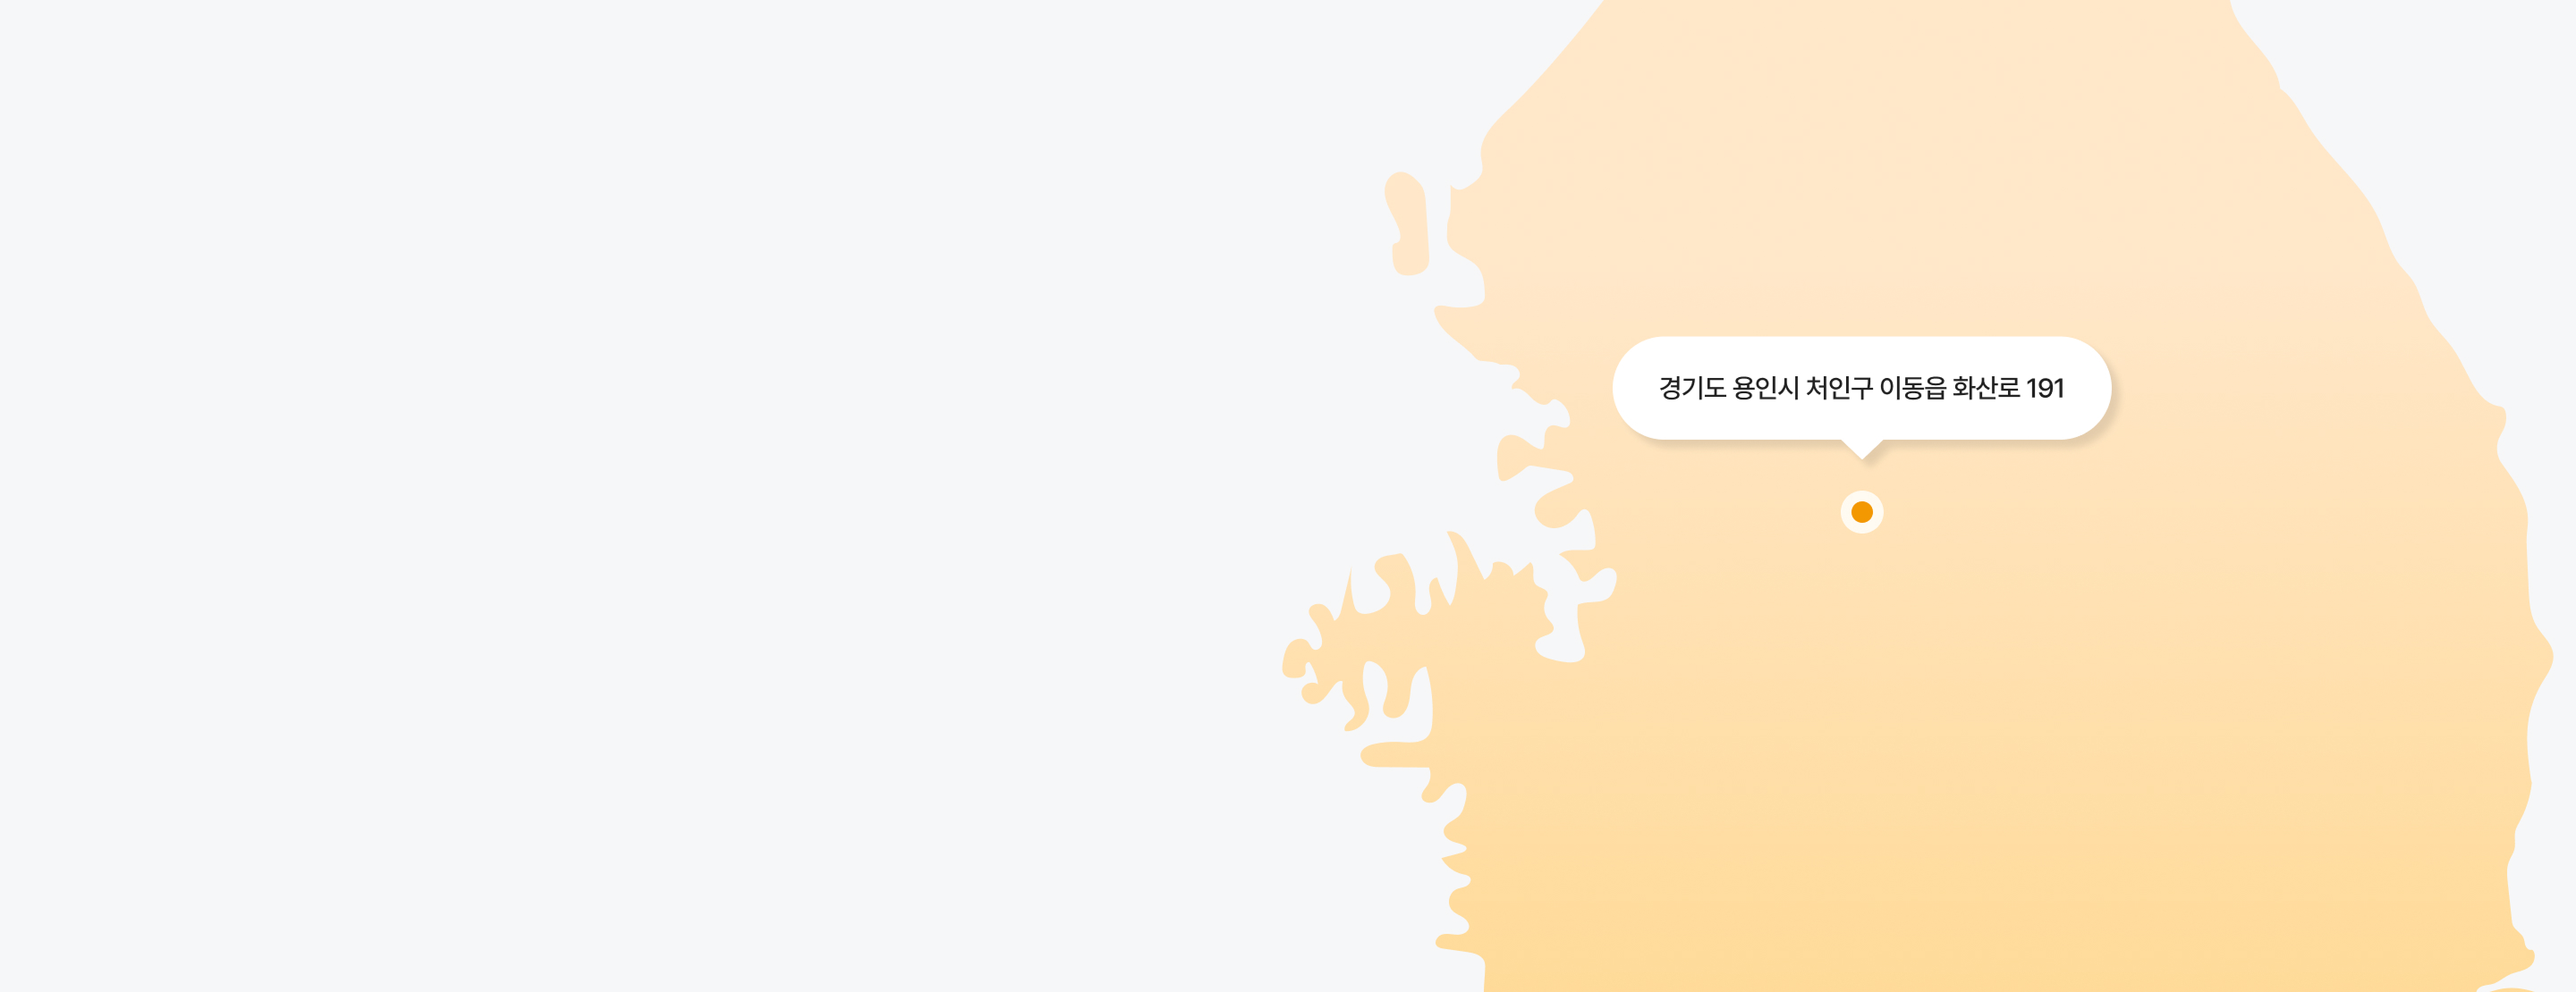
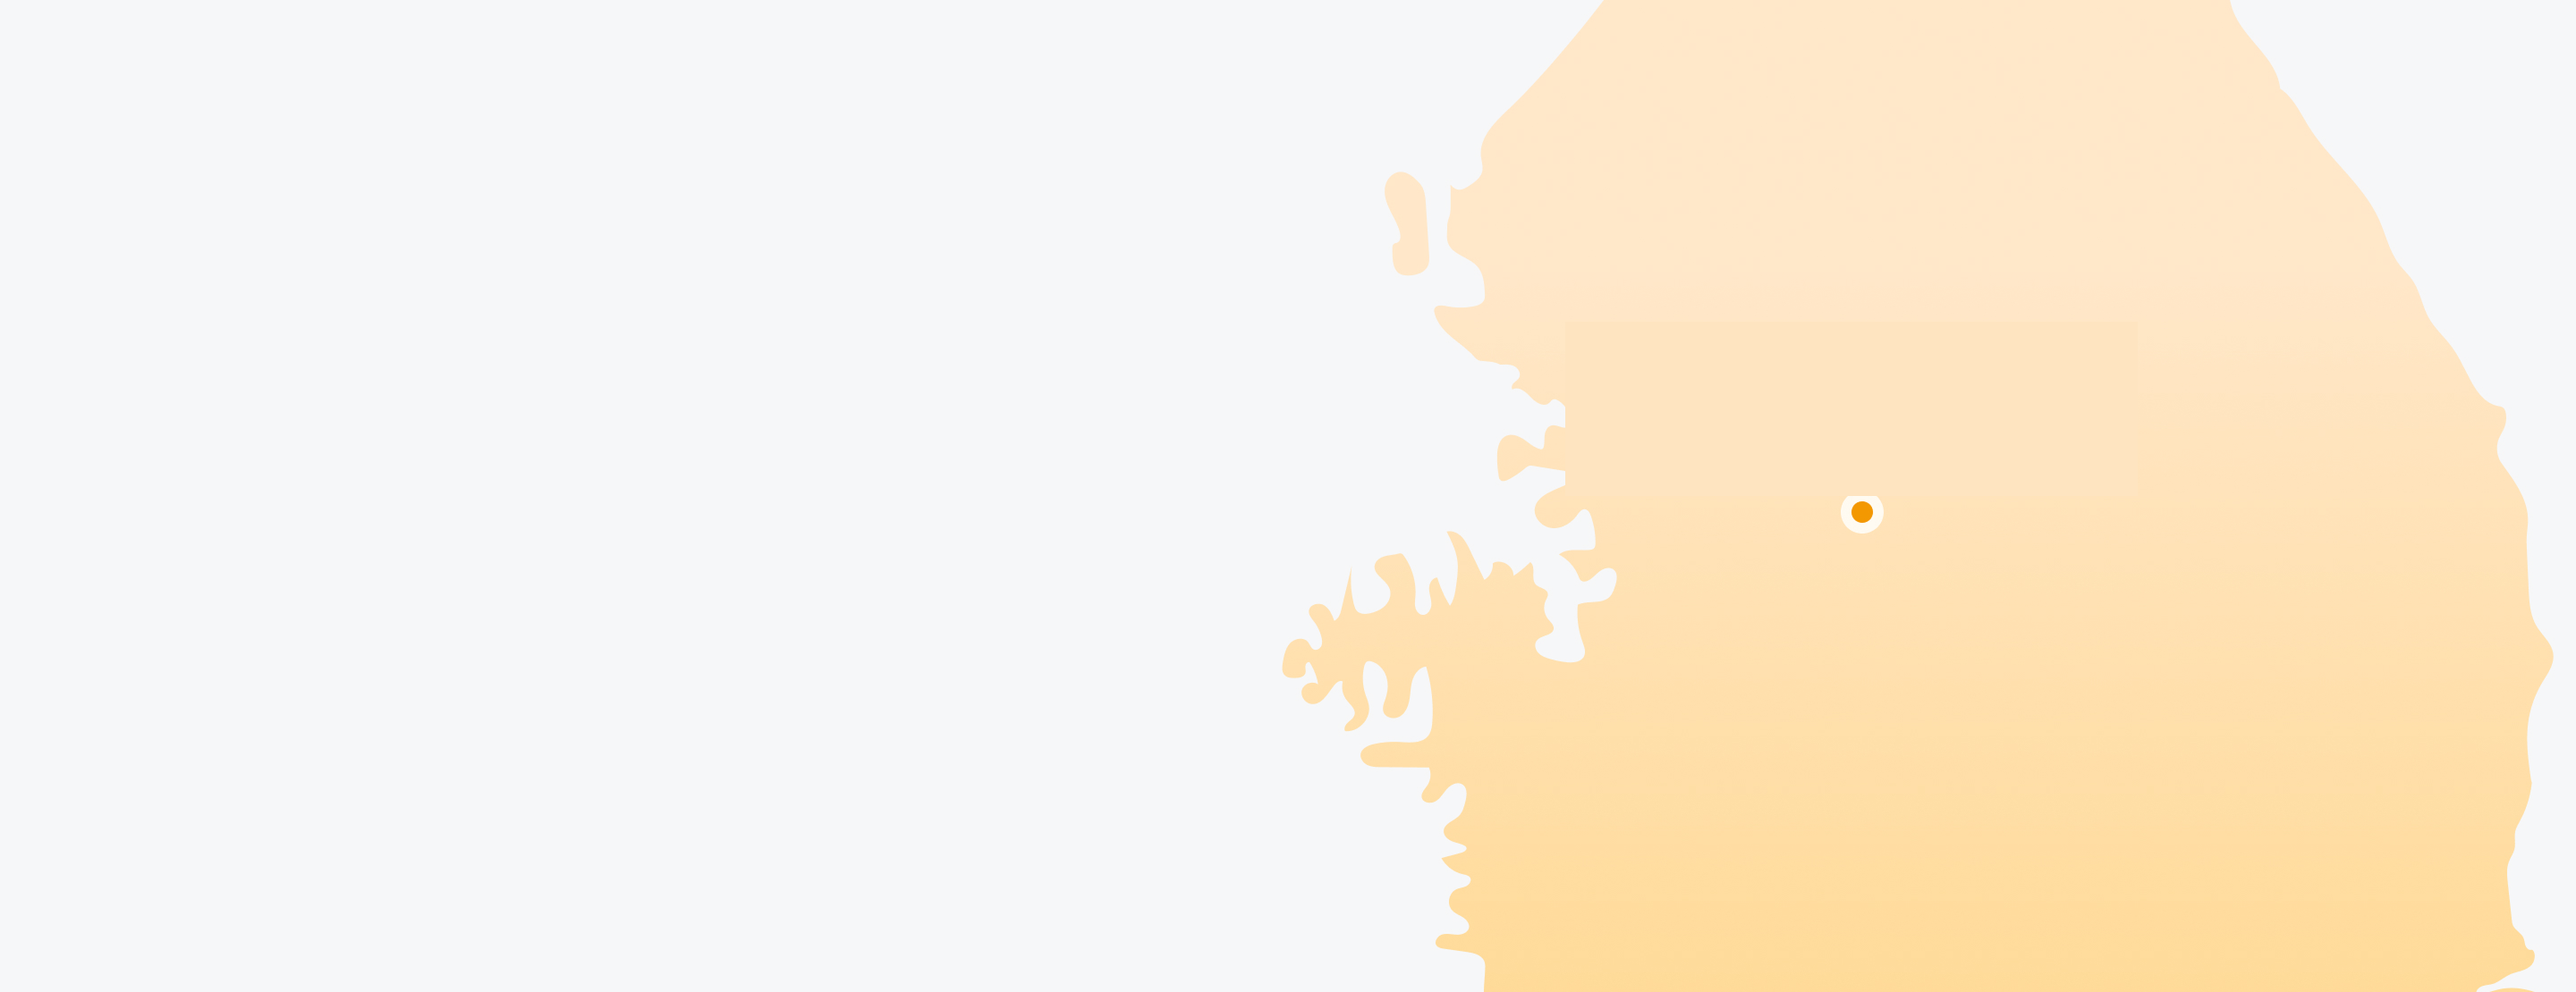
fix: 지도 말풍선 PIL 제거 + 헤더 주황 그라데이션 + GNB 중앙정렬 강화
1) 지도(map_ko_factory.png) 말풍선 영역 제거
   - 텍스트 픽셀 검출(y421-446)로 박스 위치 확정 후 점(y561-584)은 보존
   - 영역 360-555 x 1750-2390 통째로 한반도 평균 색(254,228,192)으로 패치
   - 텍스트/박스/외곽 그림자 모두 제거, 점만 남음

2) 헤더 카드 배경
   - 파트너 섹션과 동일한 그라데이션:
     linear-gradient(0deg, #FFCDBD 0.7%, #FFAD93 48.56%, #FF5D27 100.26%)
   - GNB 흰 글씨, hover 옅은 살구+underline
   - 우측 언어/햄버거 버튼은 흰 배경 + 주황 라인 아이콘
     (문의하기는 이미 주황 텍스트 pill로 유지)

3) GNB 중앙정렬 강화
   - common.css의 left-정렬 패턴(display:block + text-align:left + justify-content:
     flex-start)을 더 강하게 override
   - .gnb_main_link 자체 display:flex + align/justify:center + 좌우 padding 0
   - 안쪽 span도 text-align:center + width:auto + inline-block

Changed region(s): [[0.625, 0.3369, 0.8438, 0.4595]]

diff --git a/web/src/styles/buttons-override.css b/web/src/styles/buttons-override.css
@@ -275,8 +275,8 @@
     margin: 16px auto 24px !important;
     border-radius: 20px !important;
     border: none !important;                       /* 검은 테두리 제거 */
-    /* 그라데이션 제거, Figma 디자인은 흰색 카드 */
-    background: #fff !important;
+    /* 파트너 섹션과 동일한 주황 그라데이션 (위 진한 #FF5D27 → 아래 옅은 #FFCDBD) */
+    background: linear-gradient(0deg, #FFCDBD 0.7%, #FFAD93 48.56%, #FF5D27 100.26%) !important;
     backdrop-filter: none !important;
     -webkit-backdrop-filter: none !important;
     box-shadow: 0 8px 24px rgba(0, 0, 0, 0.06), 0 2px 6px rgba(0, 0, 0, 0.04) !important;
@@ -285,21 +285,35 @@
 /* GNB 메뉴 텍스트 — 흰 배경 위 다크 톤 (기본 색 사용) */
 .gnb_main_link,
 .gnb_main_link span {
-    color: #222 !important;
+    color: #fff !important;
 }
 
-/* common.css의 1025px+에서 .gnb_main_link가 text-align:left/justify-content:flex-start.
-   각 컬럼 셀(180px) 안에서 텍스트가 좌측에 붙어 GNB 전체가 시각적으로 좌측 치우침.
-   각 셀 가운데 정렬로 override해야 5개 메뉴가 균등 분포되어 정중앙으로 보임. */
-.gnb_wrap .gnb_main_link {
+/* common.css의 1025px+에서 .gnb_main_link가 text-align:left/justify-content:flex-start
+   + display:block + width:100%. 각 컬럼 셀(180px) 안에서 텍스트가 좌측에 붙어 GNB 전체가
+   시각적으로 좌측 치우침. 모든 가능 정렬 속성을 중앙으로 강제. */
+.gnb_wrap .gnb_main_link,
+#header .gnb_main_link {
+    display: flex !important;
+    align-items: center !important;
     justify-content: center !important;
     text-align: center !important;
+    padding-left: 0 !important;
+    padding-right: 0 !important;
+}
+
+.gnb_wrap .gnb_main_link span,
+#header .gnb_main_link span {
+    text-align: center !important;
+    width: auto !important;
+    display: inline-block !important;
 }
 .gnb_main_link:hover,
 .gnb_main_link:hover span,
 .gnb_main_link:focus-visible,
 .gnb_main_link:focus-visible span {
-    color: #FF5D27 !important;
+    color: #FFE5D8 !important;
+    text-decoration: underline;
+    text-underline-offset: 6px;
 }
 
 /* 메가 서브메뉴 텍스트 — 흰 카드 위로 옅은 톤 */
@@ -562,22 +576,21 @@ html, body {
     margin-right: 6px;
 }
 
-/* 언어/햄버거 — 흰 배경 + 어두운 라인 아이콘 */
+/* 언어/햄버거 — 주황 그라데이션 헤더 위에 흰 버튼 + 주황 라인 아이콘 */
 .lang_toggle_btn,
 .mo_menu_btn {
     background: #fff !important;
-    color: #333 !important;
-    border: 1px solid rgba(0, 0, 0, 0.08) !important;
+    color: #FF5D27 !important;
+    border: none !important;
 }
 .lang_toggle_btn:hover,
 .mo_menu_btn:hover {
-    background: #F8F8F8 !important;
-    border-color: rgba(0, 0, 0, 0.16) !important;
+    background: #FFF1EA !important;
     transform: translateY(-1px);
 }
 .lang_toggle_btn svg,
 .mo_menu_btn svg {
-    stroke: #333 !important;
+    stroke: #FF5D27 !important;
     width: 22px !important;
     height: 22px !important;
 }
